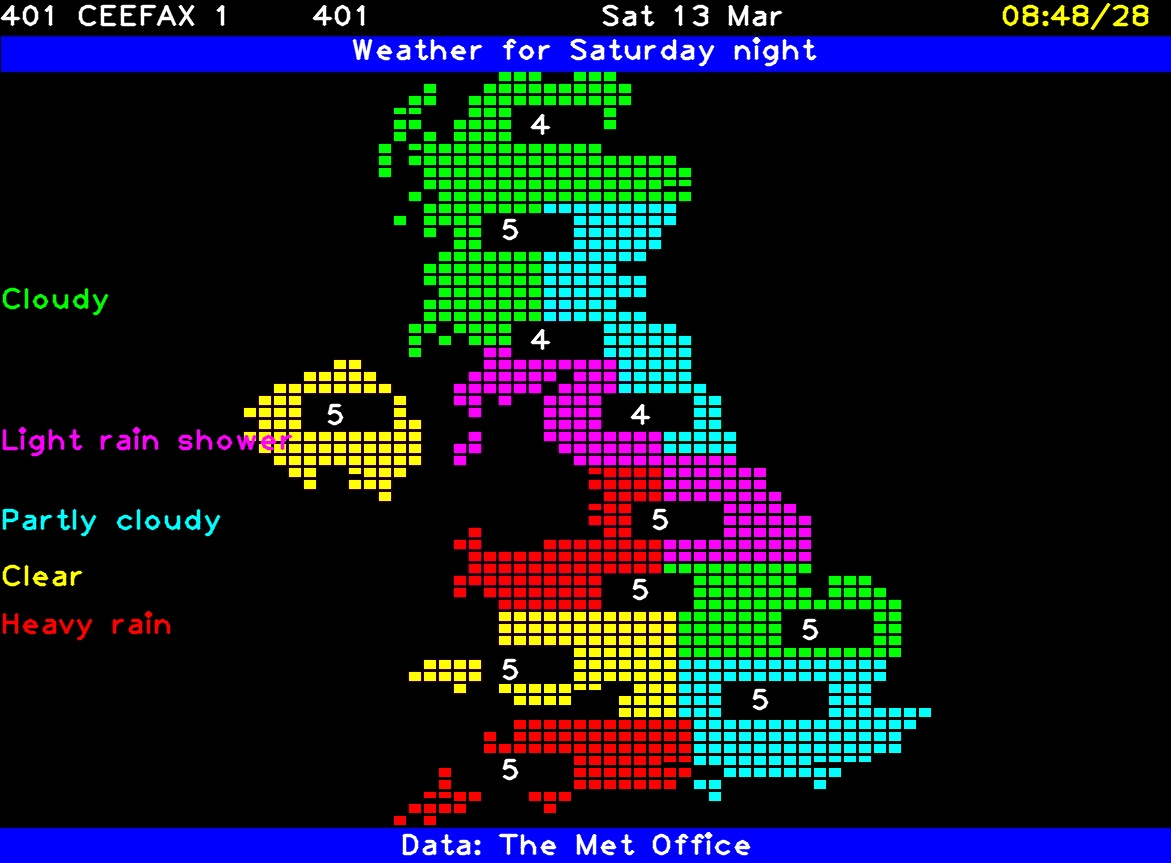
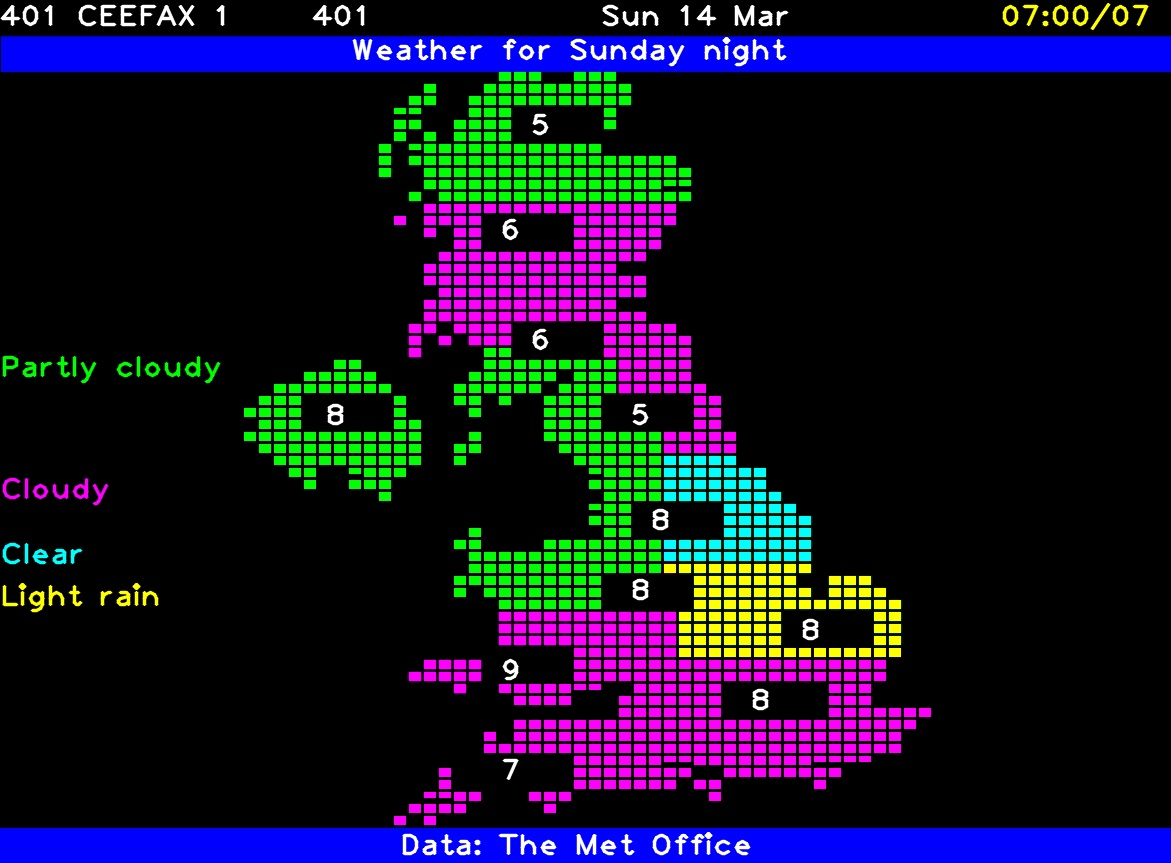
pi_2021-03-14_0700

diff --git a/weather2.py b/weather2.py
@@ -321,16 +321,24 @@ for period in timeos:
             groups[data[city][period][1]].append(city)
     if len(connies)>4:
         if '2' in connies and '3' in connies:
-                connies.remove(2)
+                connies.remove('2')
                 for city4 in blocks:
                     if data[city4][period][1]=='2':
                         data[city4][period][1]='3'
+        if '2' in connies:
+            connies.remove('2')
+            connies.append('3')
+            for city4 in blocks:
+                if data[city4][period][1]=='2':
+                    data[city4][period][1]='3'
         if len(connies)>4:
             if '3' in connies and '7' in connies:
                 connies.remove('3')
                 for city4 in blocks:
                     if data[city4][period][1]=='3':
                         data[city4][period][1]='7'
+                     
+        
         if len(connies)>4:
             if '5' in connies and '6' in connies:
                 connies.remove('5')
@@ -376,19 +384,6 @@ for period in timeos:
                     if data[city4][period][1] in ['12','15']:
                         data[city4][period][1]='31'
         if len(connies)>4:
-            if '7' in connies and '8' in connies:
-                connies.remove('8')
-                for city4 in blocks:
-                    if data[city4][period][1] in ['8']:
-                        data[city4][period][1] = '7'
-        if len(connies)>4:
-            if '12' in connies and '13' in connies:
-                connies.remove('12')
-                connies.remove('13')
-                for city4 in blocks:
-                    if data[city4][period][1] in ['12','13']:
-                        data[city4][period][1] = '31'
-        if len(connies)>4:
             wintry = ['31','16','17','19','20','22','23','24','25','26']
             score=0
             for k in connies:
@@ -400,16 +395,15 @@ for period in timeos:
                     if l in connies:
                         connies.remove(l)
                 connies.append('32')
-                
-        groups2={}
-        connies2=[]
-        for city in blocks:
-            if data[city][period][1] not in connies2:
-                connies2.append(data[city][period][1])
-                groups2[data[city][period][1]]=[city]
-            else:
-                groups2[data[city][period][1]].append(city)
+                data[city][period][1] = '32'
             
+    groups2={}
+    for city in blocks:
+        if data[city][period][1] not in groups2:
+            groups2[data[city][period][1]]=[city]
+        else:
+            groups2[data[city][period][1]].append(city)
+              
    
      #   print(groups)
     img = cv2.imread('/media/pi/D608-D7E6/ceefax_base/0.jpg')
@@ -425,43 +419,31 @@ for period in timeos:
 
     for city2 in temps:
          cv2.putText(img,str(data[city2][period][0]),cities[city2][1],font,2,(255,255,255),2,cv2.LINE_AA)
-    colours=[(0,255,0),(255,0,255),(255,255,0),(0,255,255)]
-    posns= [(0,400),(0,250),(0,200),(0,750)]
+    colours=[(0,255,0),(255,0,255),(255,255,0),(0,255,255),(0,0,255),(255,255,255)]
+    posns= [(0,400),(0,250),(0,150),(0,750),(0,600),(0,500)]
     i=0
     words=[]
     posy={}
-   # print(connies)
     while i<len(connies):
         words.append(connies[i])
         i=i+1
-    cols={}
     for city3 in blocks:
-       # print(city3)
-        j=0
-   
- #       print(connies,groups2)
-        while j<len(connies2):
-            if city3 in groups2[connies2[j]]:
-              #  print(groups2[connies2[j]])
-                cx=colours[j]
-                cols[city3]=cx
+        jj=0
+        for jk in groups2:
+            if city3 in groups2[jk]:
+                cx=colours[jj]
                 if cx not in posy.keys():
                     posy[cx]=[]
                 posy[cx]=posy[cx]+list(blocks[city3].keys())
 
 
-            j=j+1
-#    print(cols)
- #   print(groups2)
-    for city3 in blocks:
+            jj=jj+1
         for y in blocks[city3]:
             for x in blocks[city3][y]:
-                cx=cols[city3]
                 img=cv2.rectangle(img,(int(x),y),(int(x)+11,y+8),cx,-1)
         if city3 in small:
             for y in small[city3]:
                 for x in small[city3][y]:
-                    cx=cols[city3]
                     img=cv2.rectangle(img,(int(x),y),(int(x)+11,y+5),cx,-1)
         
         
@@ -478,23 +460,23 @@ for period in timeos:
         while m<n:
             if abs(posns[m][1] - posns[n][1]) < 30:
                 if posns[n][1] < 780:
-                    posns[n] = (0, posns[n][1] + 30)
+                    posns[n] = (0, posns[n][1] + 60)
                 else:
-                    posns[n] = (0,posns[n][1] - 30)
+                    posns[n] = (0,posns[n][1] - 60)
             m=m+1
         n=n+1
     print(posns)
     
     ab2=0
-    while ab2<len(connies2):
-        diff=connies2[ab2]
+    while ab2<len(connies):
+        diff=connies[ab2]
         cv2.putText(img,codes[int(diff)],posns[ab2],font,2,colours[ab2],2,cv2.LINE_AA)
         ab2=ab2+1
                     
         
         
     base='/media/pi/D608-D7E6/ceefax/'  
-    print(period)
+    print(period,connies)
     print('\n')
     cv2.imwrite(base+period+'.jpg',img)
         
